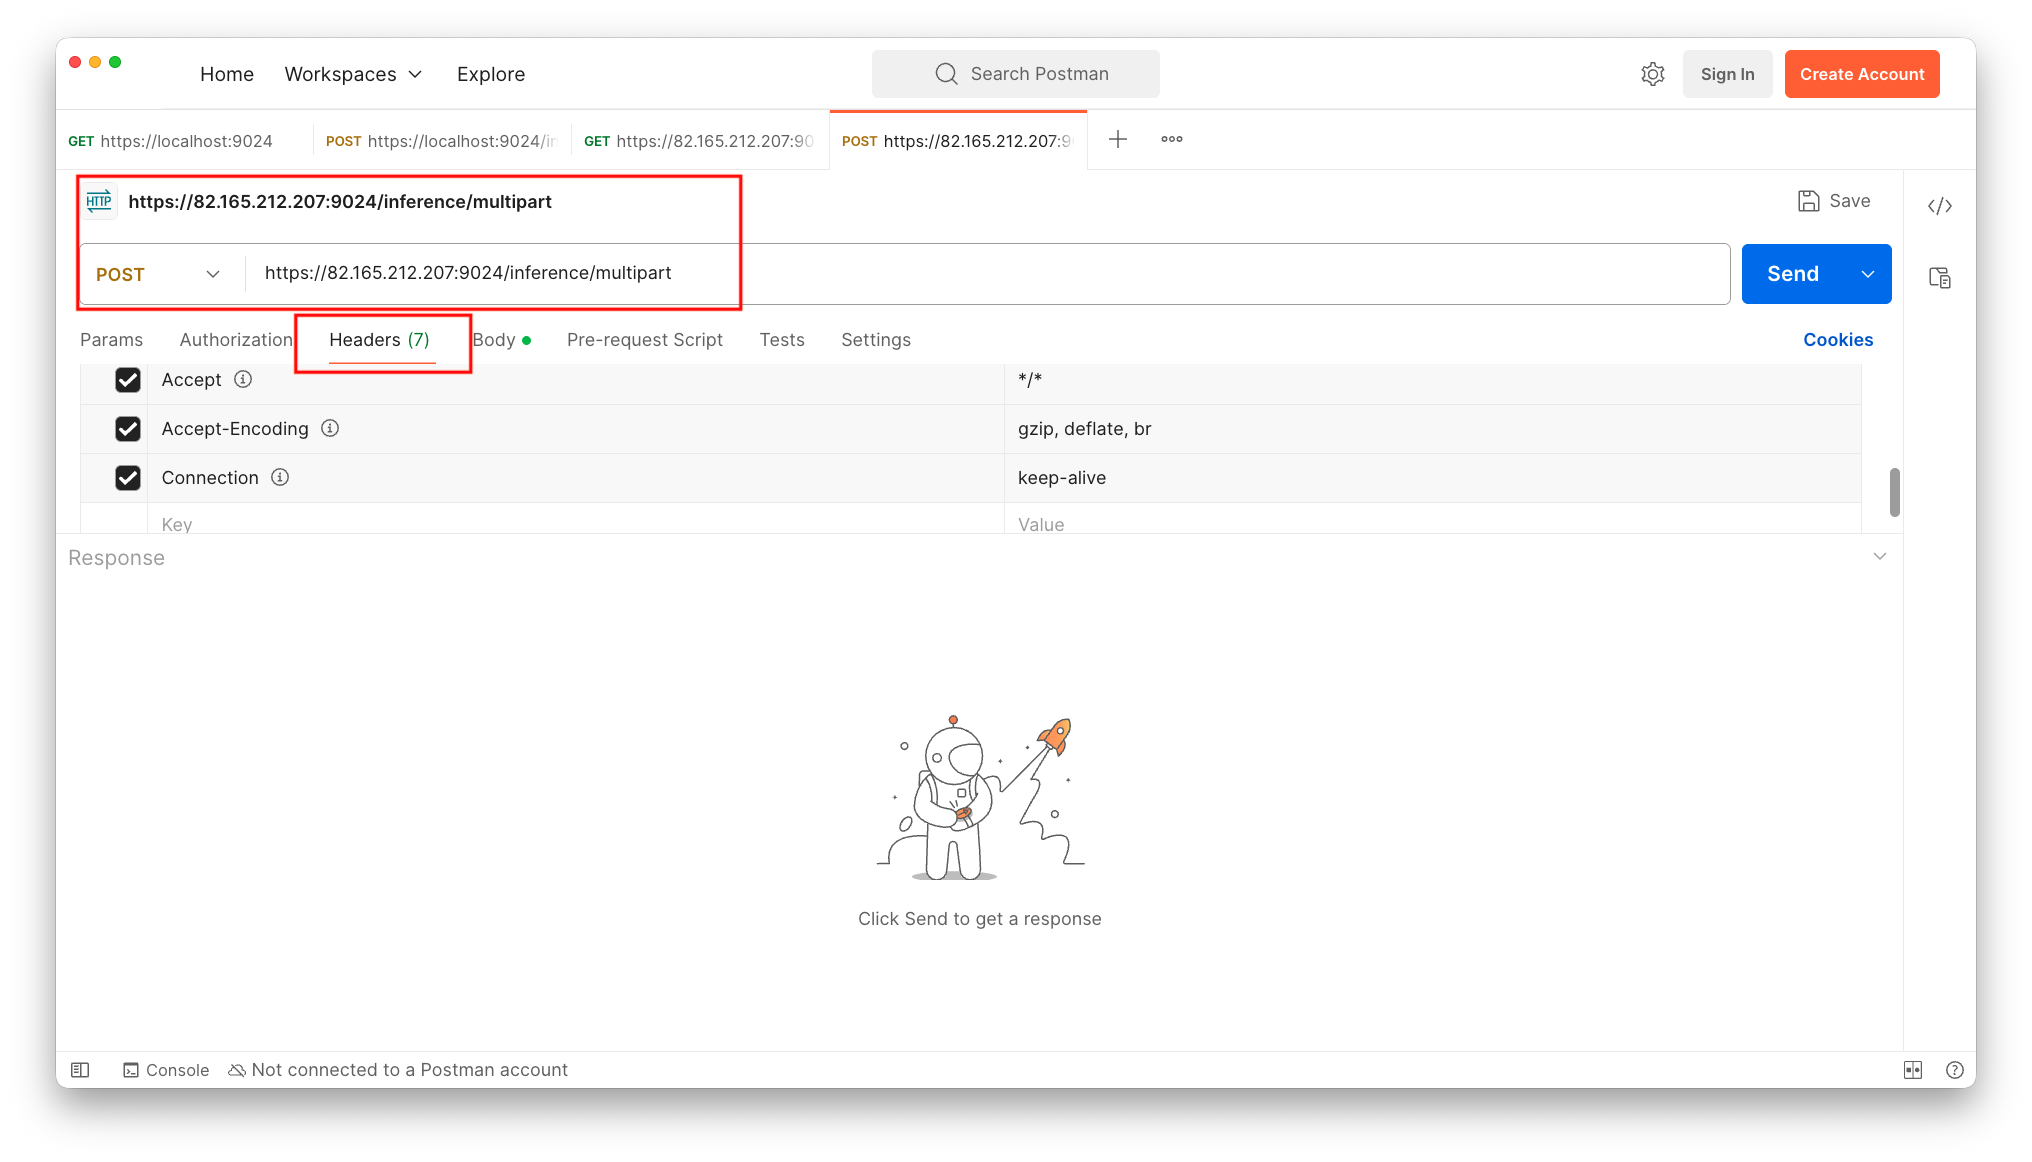
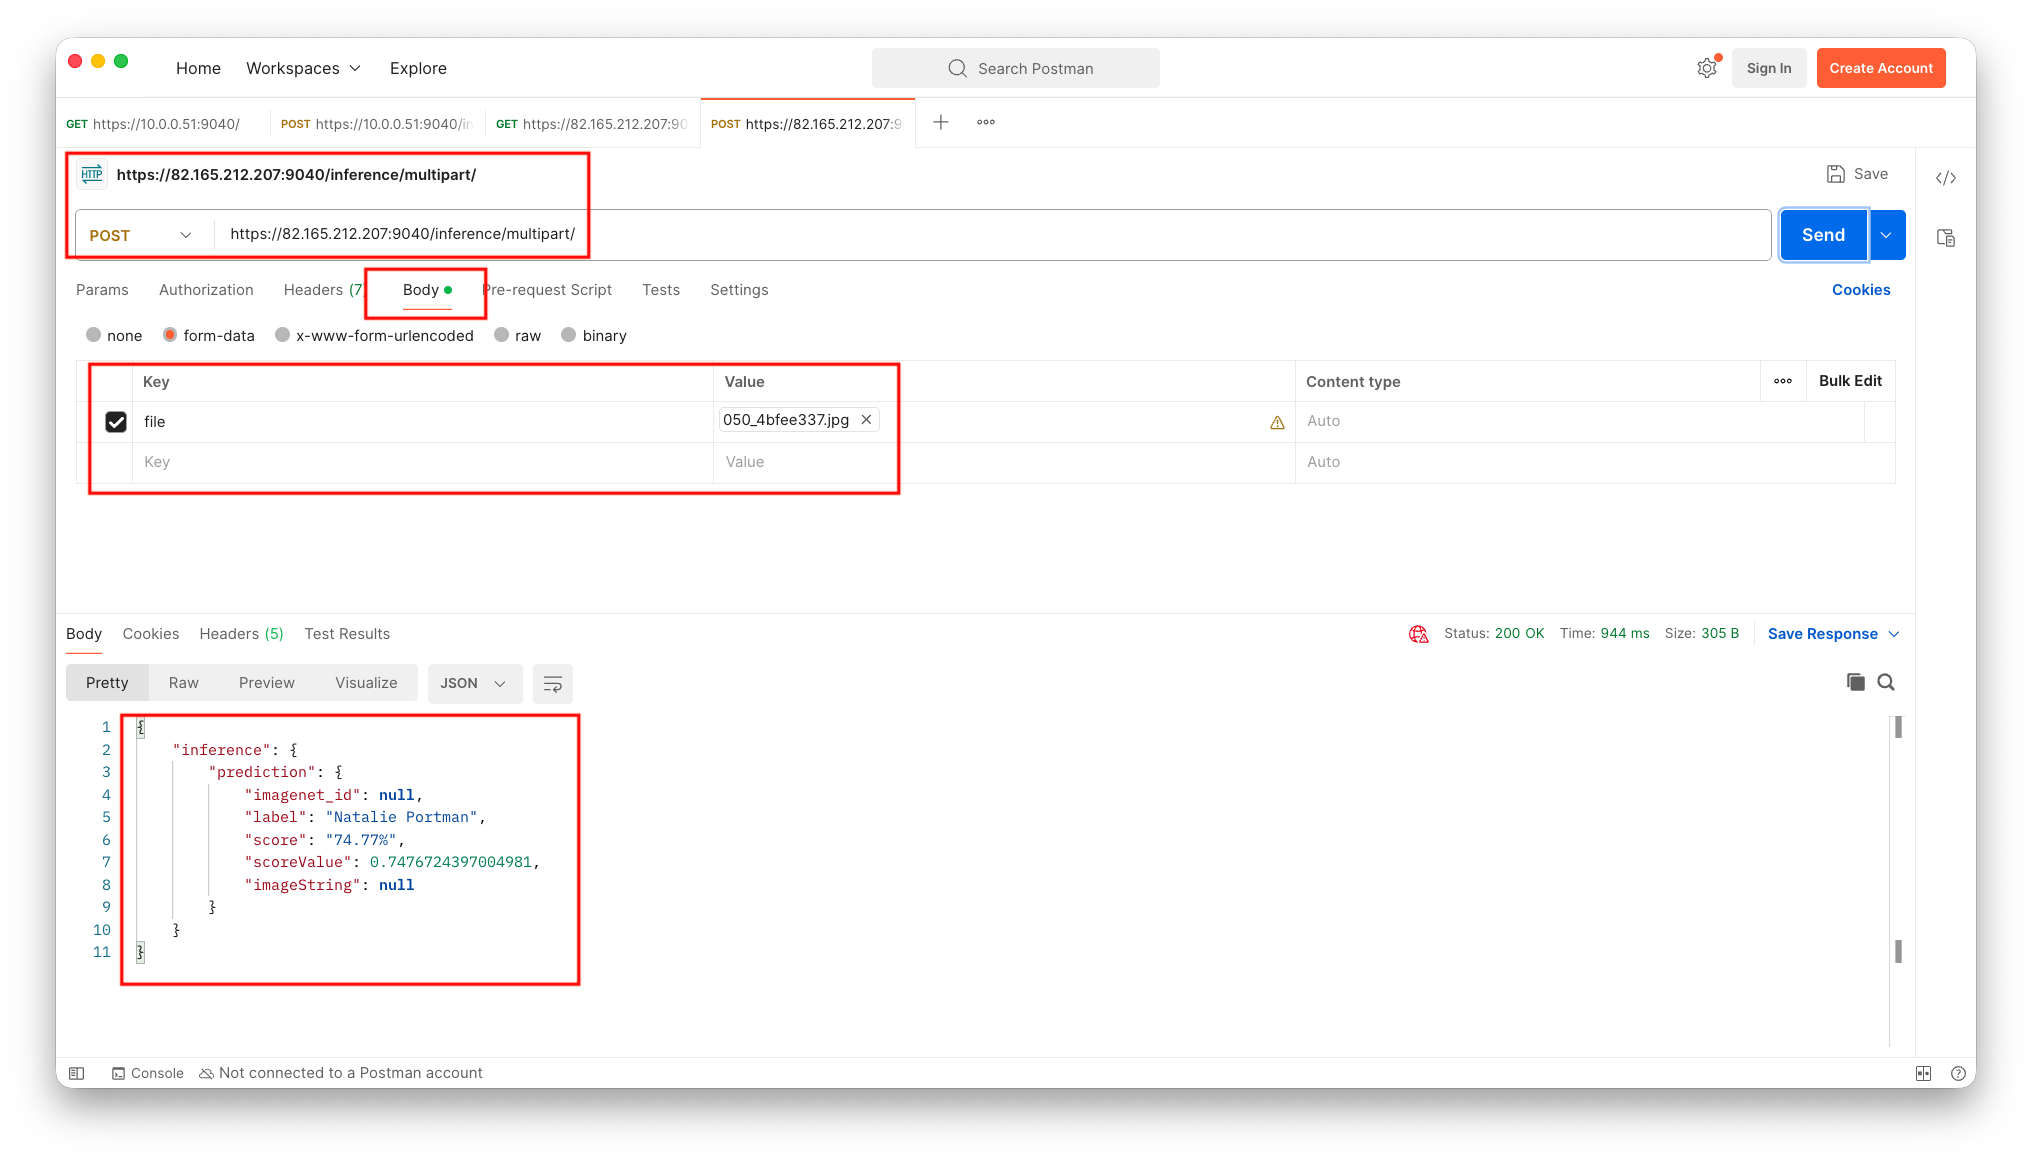
Updates.

diff --git a/README.md b/README.md
@@ -1,14 +1,30 @@
-# InferenceFaceDetection (BETA) v1.0
-The "Face Detection Service" is the interface to the backend LLM used to make predictions based on facial recognition. The service can be use from an web app, IOS app or any other app.
-
+# Face Detection Service (BETA) v1.0
 *NOTE: This service is still in beta using a custom self signed certificate.
 
-Architecture:
-![Architecture](assets/Architecture.png)
+The "Face Detection Service" is the interface to the backend LLM used to make predictions based on facial recognition. 
 
-You can try out this service using "Postman" with images provided in the "TestImages" folder or any other image. The service returns a json string with a prediction score for the uploaded image.
+Architecture:
+![Architecture](assets/InferenceFaceDetection.png)
+
+Use cases:
+
+    - Search photos.
+    - Search videos or a live stream frame by frame.
+    - Train the LLM to recognize employees entering a building 
+      who would normally need to show ID or use a fob before 
+      entering a building.
+    - And many more use cases!
+
+The service can be use from an web app, IOS app or any device capable of accessing the service.
+
+For demo purposes the LLM was trained with these famous people's faces:
+
+Angelina Jolie, Brad Pitt, Denzel Washington, Hugh Jackman, Jennifer Lawrence, Johnny Depp, Kate Winslet, Leonardo DiCaprio, Megan Fox, Natalie Portman, Nicole Kidman, Robert Downey Jr, Sandra Bullock, Scarlett Johansson, Tom Cruise, Tom Hanks, Will Smith.
+
+The LLM can idenify these famous faces from a video, live feed or a photo.
+
+You can try out this service using "Postman" with photos provided in the "TestImages" folder. The service trys to predict the identity of the uploaded photo and returns a json string with a prediction score for the uploaded image. 
 
 ![Postman1](assets/Postman1.png)
-![Postman2](assets/Postman2.png)
 
 The service logs any uploaded images along with the prediction score for analytics purposes.
